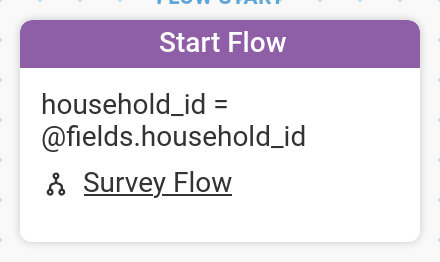
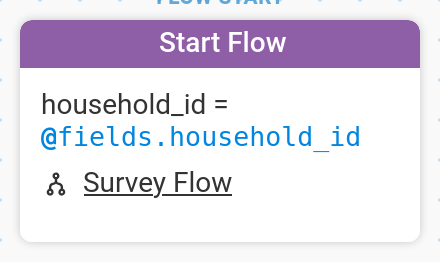
Highlight Start Flow contact query (#908)

Changed region(s): [[0.0886, 0.458, 0.8273, 0.6107]]

diff --git a/src/flow/actions/start_session.ts b/src/flow/actions/start_session.ts
@@ -7,7 +7,11 @@ import {
   FlowTypes
 } from '../types';
 import { Node, StartSession } from '../../store/flow-definition';
-import { renderMixedList, renderFlowLinks } from '../utils';
+import {
+  renderMixedList,
+  renderFlowLinks,
+  renderHighlightedText
+} from '../utils';
 import { Icon } from '../../Icons';
 import { CustomEventType } from '../../interfaces';
 
@@ -20,7 +24,10 @@ export const start_session: ActionConfig = {
     if (action.create_contact) {
       recipientsDisplay = html`Create a new contact`;
     } else if ((action as any).contact_query) {
-      recipientsDisplay = html`${(action as any).contact_query}`;
+      recipientsDisplay = html`${renderHighlightedText(
+        (action as any).contact_query,
+        true
+      )}`;
     } else {
       const recipients = [
         ...(action.groups || []).map((g) => ({
